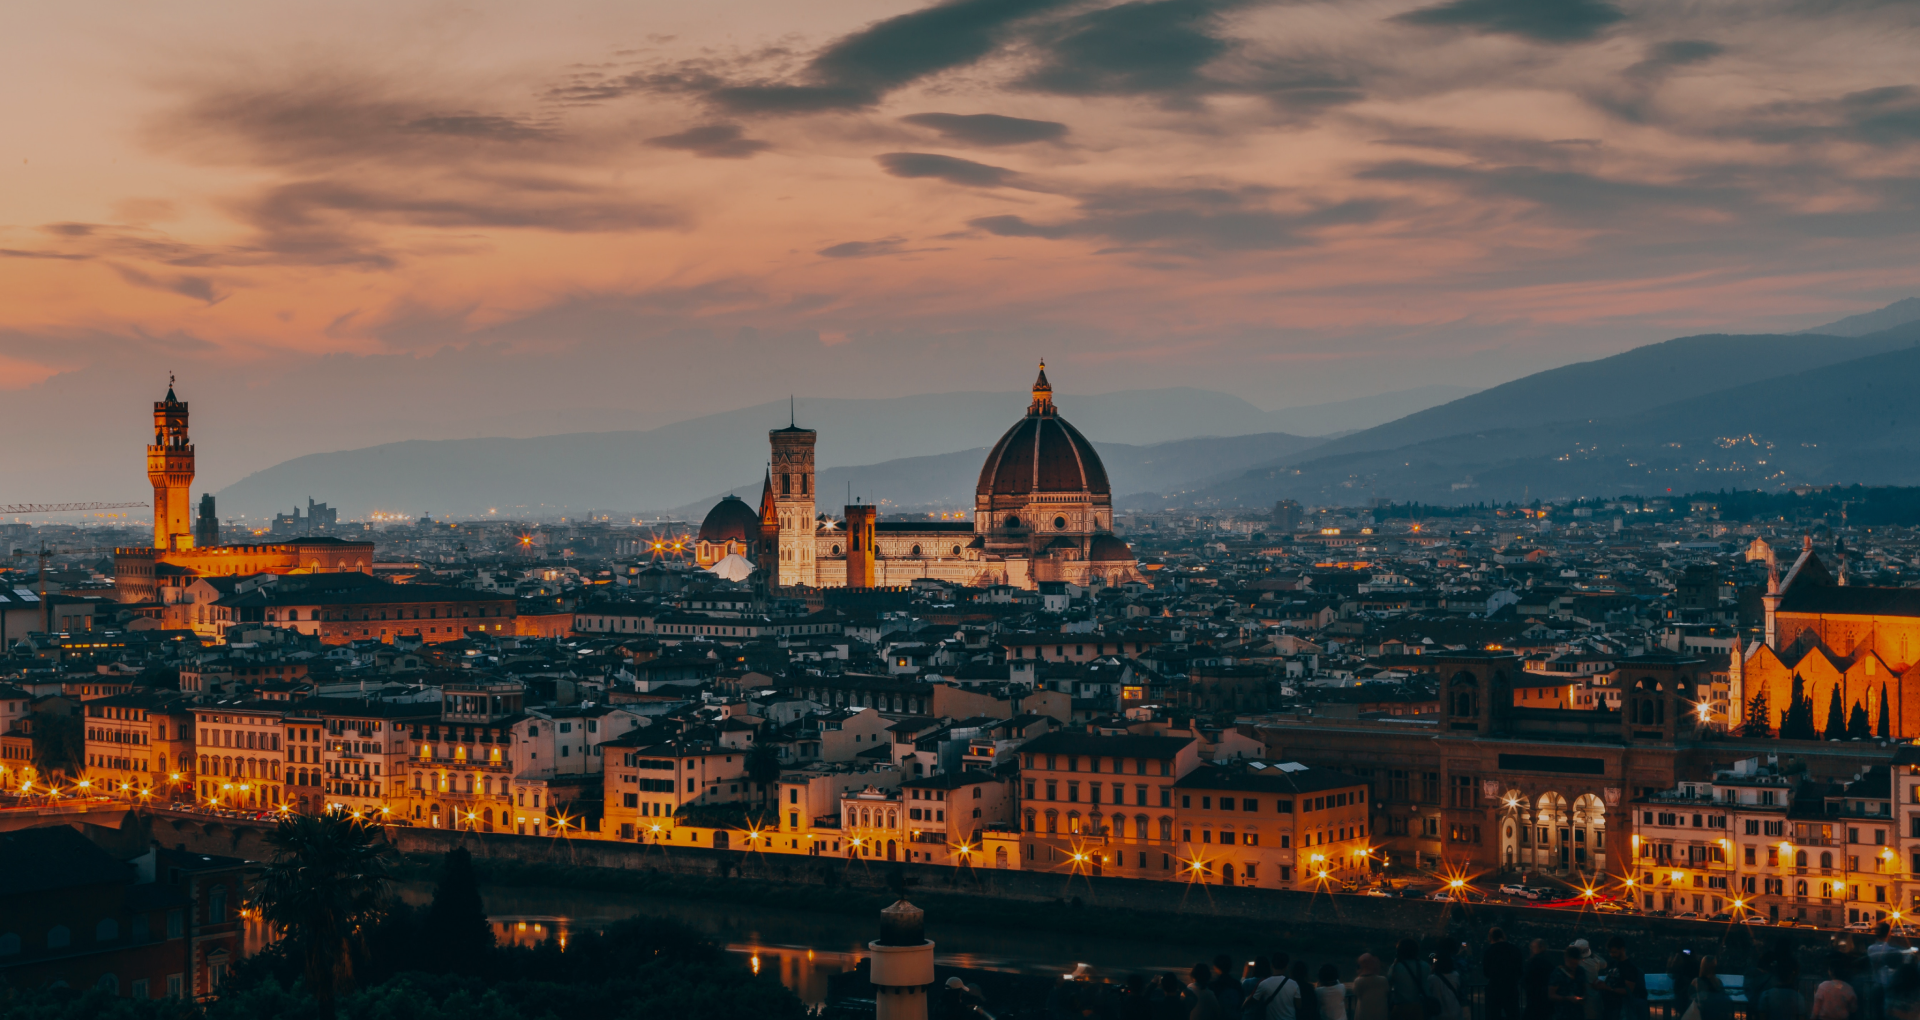
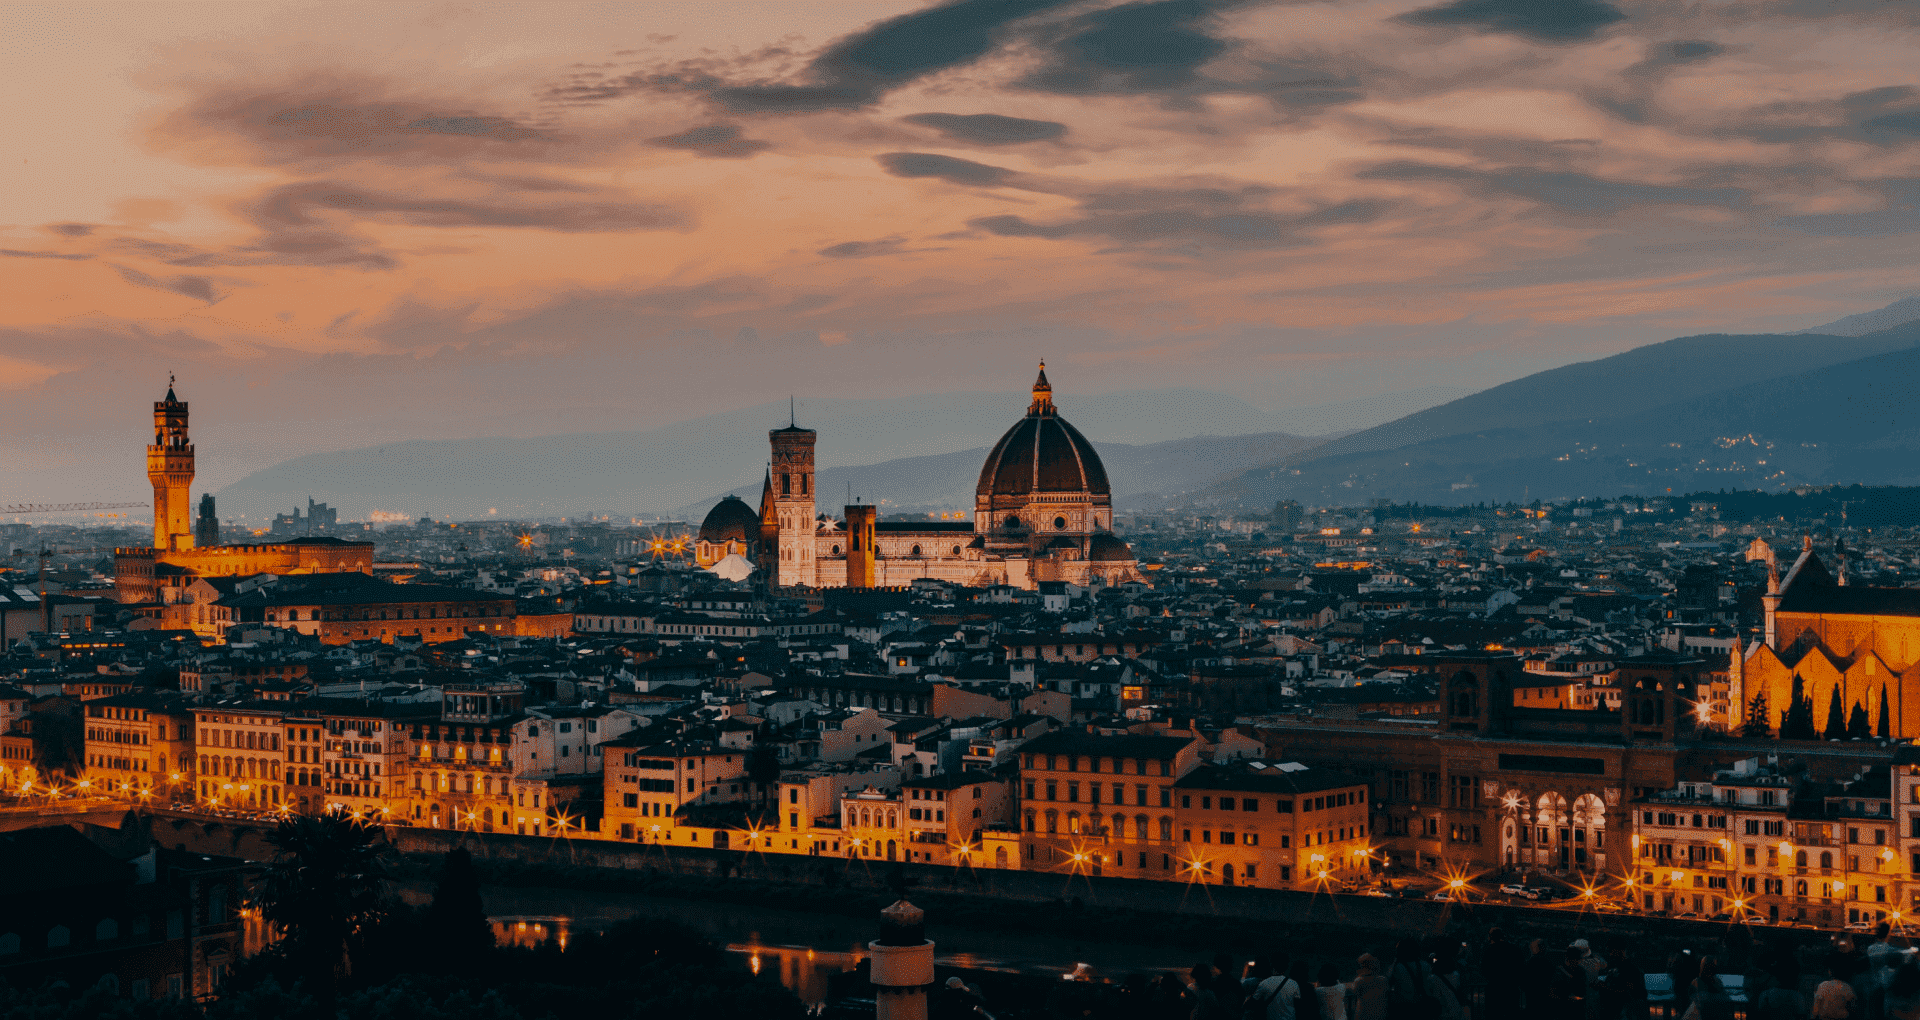
compress main page background image

diff --git a/src/main.js b/src/main.js
@@ -9,7 +9,7 @@ import Vuelidate from 'vuelidate'
 
 import axios from 'axios'
 
-axios.defaults.baseURL = 'http://localhost:3000/'
+axios.defaults.baseURL = 'http://localhost:8080/'
 
 Vue.use(axios)
 Vue.use(VueI18n)
